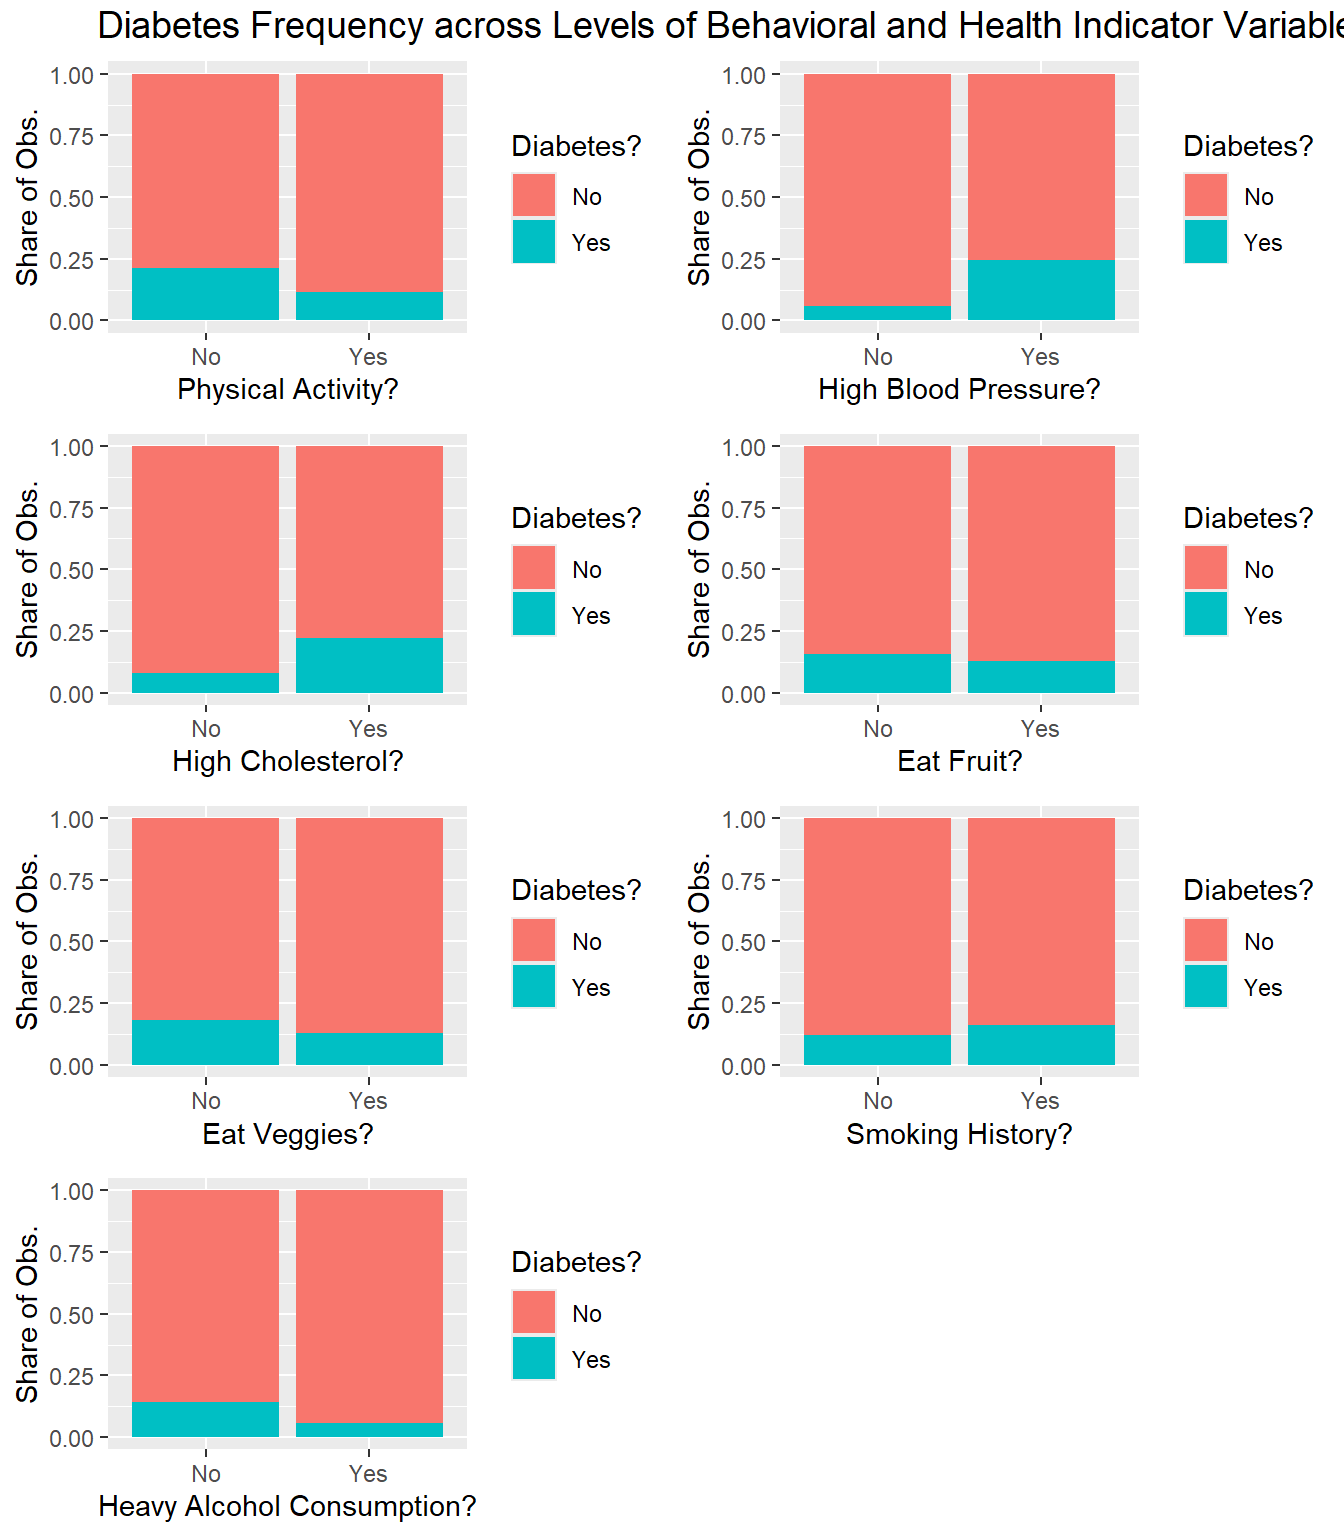
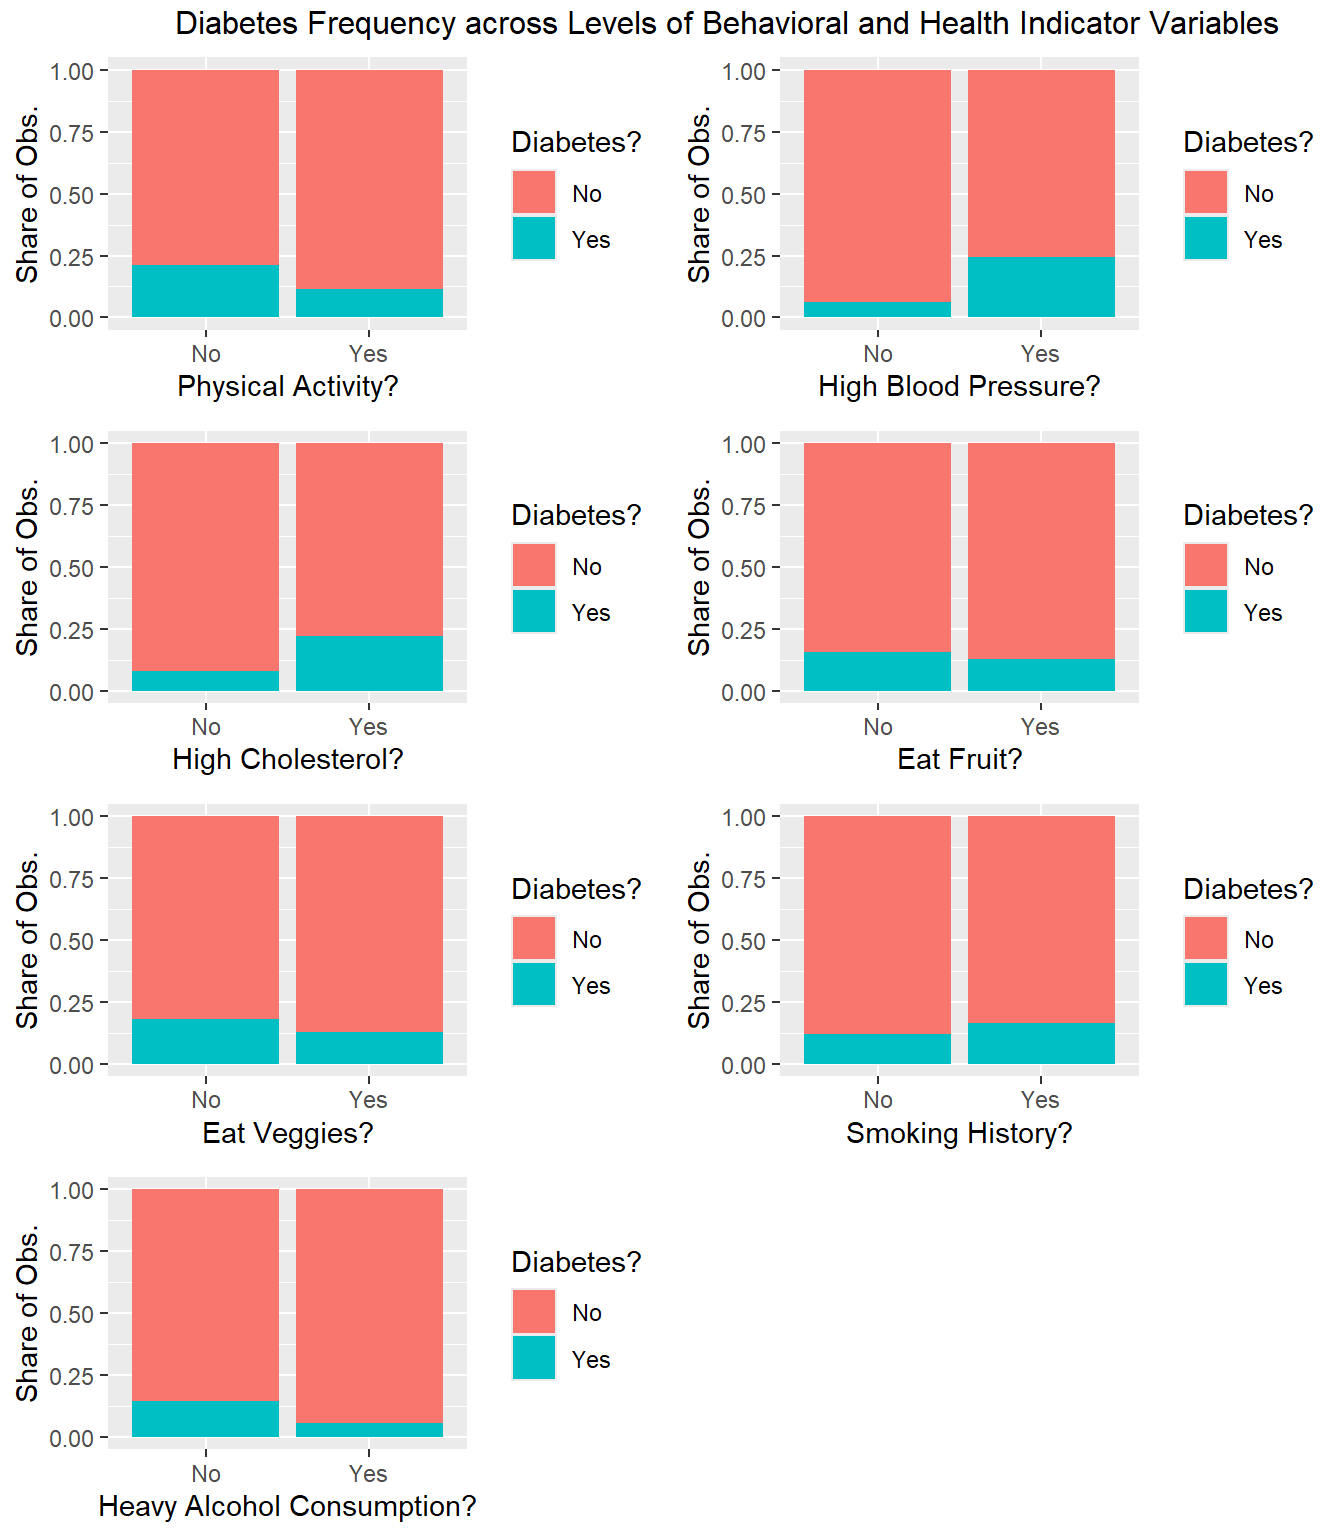
Hopefully final tweaks

diff --git a/docs/EDA.html b/docs/EDA.html
@@ -528,7 +528,7 @@ $Income
 <span id="cb35-36"><a href="#cb35-36" aria-hidden="true" tabindex="-1"></a><span class="co">#Combining the seven plots in a single visualations</span></span>
 <span id="cb35-37"><a href="#cb35-37" aria-hidden="true" tabindex="-1"></a><span class="fu">grid.arrange</span>(g1, g2, g3, g4, g5, g6, g7, <span class="at">ncol =</span> <span class="dv">2</span>, </span>
 <span id="cb35-38"><a href="#cb35-38" aria-hidden="true" tabindex="-1"></a>             <span class="at">top =</span> <span class="fu">textGrob</span>(<span class="st">"Diabetes Frequency across Levels of Behavioral and Health Indicator Variables"</span>, </span>
-<span id="cb35-39"><a href="#cb35-39" aria-hidden="true" tabindex="-1"></a>                            <span class="at">hjust =</span> <span class="fl">0.45</span>, <span class="at">gp =</span> <span class="fu">gpar</span>(<span class="at">fontsize =</span> <span class="dv">14</span>)))</span></code><button title="Copy to Clipboard" class="code-copy-button"><i class="bi"></i></button></pre></div>
+<span id="cb35-39"><a href="#cb35-39" aria-hidden="true" tabindex="-1"></a>                            <span class="at">hjust =</span> <span class="fl">0.45</span>, <span class="at">gp =</span> <span class="fu">gpar</span>(<span class="at">fontsize =</span> <span class="dv">12</span>)))</span></code><button title="Copy to Clipboard" class="code-copy-button"><i class="bi"></i></button></pre></div>
 <div class="cell-output-display">
 <div>
 <figure class="figure">
